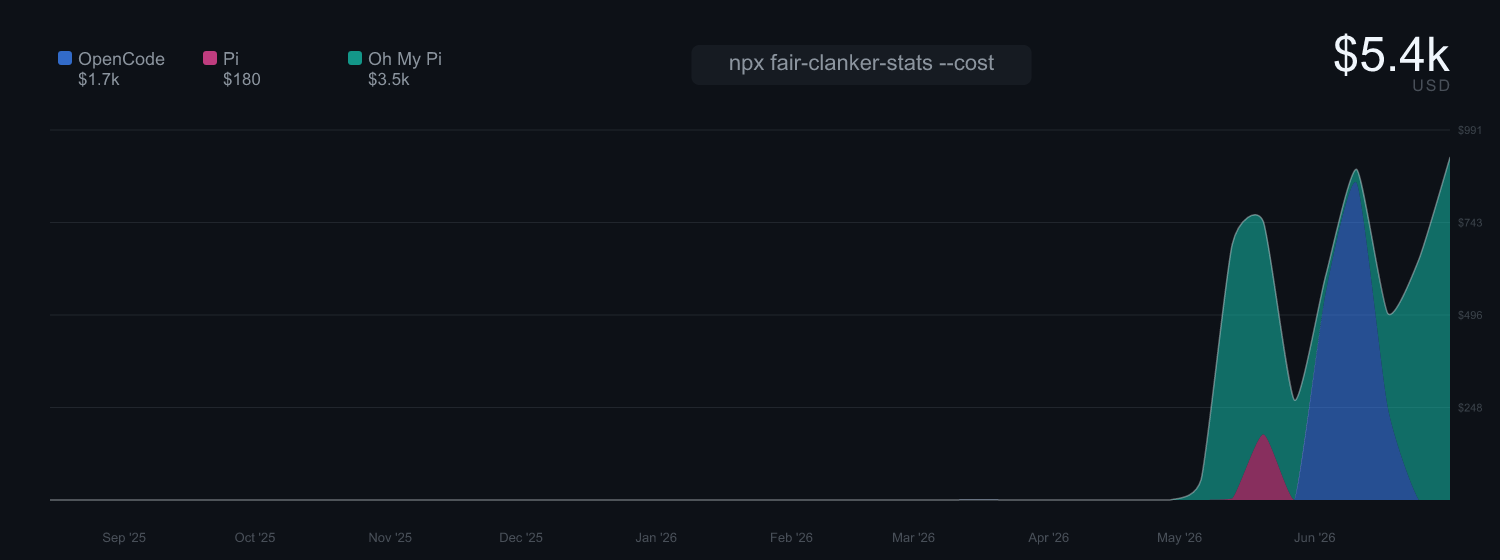
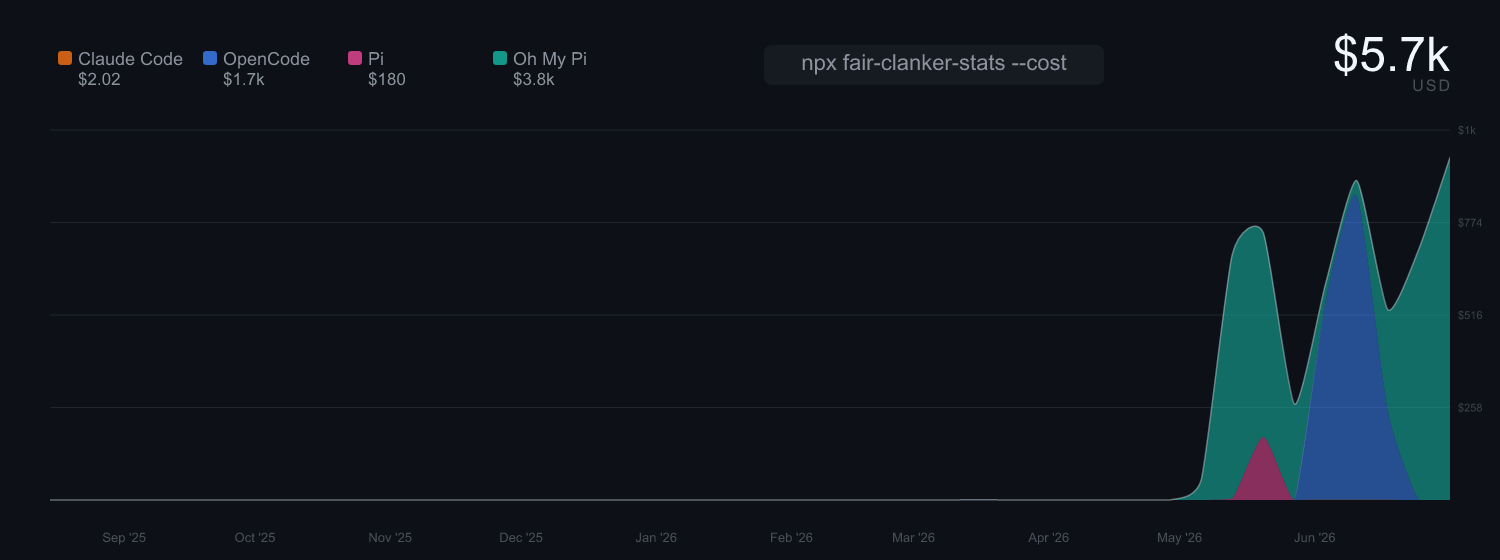
add cc support for cost

diff --git a/cli.js b/cli.js
@@ -22,6 +22,56 @@ function add(map, date, n) {
   map.set(date, (map.get(date) || 0) + n)
 }
 
+// Anthropic price table (USD per MTok, [input, output]), snapshot 2026-07-02
+// from https://platform.claude.com/docs/en/build-with-claude/prompt-caching
+// Derived rates: cache read = 0.1x input, 5m cache write = 1.25x, 1h write = 2x.
+const ANTHROPIC_RATES = {
+  "claude-fable-5": [10, 50],
+  "claude-mythos-5": [10, 50],
+  "claude-opus-4-8": [5, 25],
+  "claude-opus-4-7": [5, 25],
+  "claude-opus-4-6": [5, 25],
+  "claude-opus-4-5": [5, 25],
+  "claude-opus-4-1": [15, 75],
+  "claude-opus-4": [15, 75],
+  "claude-sonnet-5": [2, 10], // 3/15 from 2026-09-01, handled below
+  "claude-sonnet-4-6": [3, 15],
+  "claude-sonnet-4-5": [3, 15],
+  "claude-sonnet-4": [3, 15],
+  "claude-haiku-4-5": [1, 5],
+  "claude-haiku-3-5": [0.8, 4],
+  "claude-3-7-sonnet": [3, 15],
+  "claude-3-5-sonnet": [3, 15],
+  "claude-3-5-haiku": [0.8, 4],
+  "claude-3-opus": [15, 75],
+  "claude-3-haiku": [0.25, 1.25],
+}
+
+function anthropicRates(model, ts) {
+  if (!model) return null
+  let m = model.toLowerCase()
+  m = m.slice(m.lastIndexOf("/") + 1)                     // strip provider prefix
+  m = m.replace(/^(?:[a-z]{2}\.)?anthropic\./, "")        // bedrock region/vendor prefix
+  m = m.replace(/-v\d+(?::\d+)?$/, "")                    // bedrock -v1:0
+  m = m.replace(/[-@]\d{8}$/, "")                         // date suffix
+  if (m.startsWith("claude-sonnet-5") && ts && new Date(ts) >= new Date("2026-09-01")) return [3, 15]
+  if (ANTHROPIC_RATES[m]) return ANTHROPIC_RATES[m]
+  for (const k in ANTHROPIC_RATES) if (m.startsWith(k)) return ANTHROPIC_RATES[k]
+  return null
+}
+
+// TTL-aware cache-write pricing, mirrors Claude Code's own cost function:
+// ephemeral_1h tokens bill at 2x input, the rest at 1.25x.
+function anthropicCost([inp, out], u) {
+  const wTotal = u.cache_creation_input_tokens || 0
+  const w1h = Math.min(u.cache_creation?.ephemeral_1h_input_tokens || 0, wTotal)
+  return ((u.input_tokens || 0) * inp
+    + (u.output_tokens || 0) * out
+    + (u.cache_read_input_tokens || 0) * inp * 0.1
+    + (wTotal - w1h) * inp * 1.25
+    + w1h * inp * 2) / 1e6
+}
+
 async function collectClaude() {
   const counts = new Map()
   const dir = join(home, ".claude", "projects")
@@ -39,6 +89,37 @@ async function collectClaude() {
         const tokens = (u.input_tokens || 0) + (u.output_tokens || 0) +
           (u.cache_creation_input_tokens || 0) + (u.cache_read_input_tokens || 0)
         if (tokens > 0) add(counts, isoToDate(obj.timestamp), tokens)
+      } catch {}
+    }
+  }
+  return counts
+}
+
+// Claude Code writes no cost to disk; compute it ccusage-style from tokens.
+async function collectCostClaude() {
+  const counts = new Map()
+  const dir = join(home, ".claude", "projects")
+  const seen = new Set()
+  for (const path of await fg("*/*.jsonl", { cwd: dir })) {
+    if (path.includes("/subagents/")) continue
+    const text = await readFile(join(dir, path), "utf-8")
+    for (const line of text.split("\n")) {
+      if (!line.includes('"assistant"') || !line.includes('"usage"')) continue
+      try {
+        const obj = JSON.parse(line)
+        if (obj.type !== "assistant" || obj.isSidechain) continue
+        const u = obj.message?.usage
+        if (!u || !obj.timestamp) continue
+        if (obj.message.model === "<synthetic>") continue
+        const rates = anthropicRates(obj.message.model, obj.timestamp)
+        if (!rates) continue
+        if (obj.message.id) {
+          const key = `${obj.message.id}:${obj.requestId || ""}`
+          if (seen.has(key)) continue
+          seen.add(key)
+        }
+        const cost = anthropicCost(rates, u)
+        if (cost > 0) add(counts, isoToDate(obj.timestamp), cost)
       } catch {}
     }
   }
@@ -229,8 +310,20 @@ async function collectCostPiFormat(dir) {
         const obj = JSON.parse(line)
         if (obj.type !== "message") continue
         const u = obj.message?.usage || obj.usage
-        const c = u?.cost?.total
-        if (c > 0 && obj.timestamp) add(counts, isoToDate(obj.timestamp), c)
+        let c = u?.cost?.total
+        if (!(c > 0) || !obj.timestamp) continue
+        // Pi/OMP price all cache writes at the 5m rate; rebill 1h-TTL writes at 2x input.
+        // No-op when the recorded cacheWrite cost already matches the TTL-aware price.
+        const t1h = u.cttl?.ephemeral1h || 0
+        if (t1h > 0) {
+          const rates = anthropicRates(obj.message?.model, obj.timestamp)
+          if (rates) {
+            const w = u.cacheWrite || 0
+            const correct = (Math.min(t1h, w) * 2 + Math.max(w - t1h, 0) * 1.25) * rates[0] / 1e6
+            c += correct - (u.cost.cacheWrite || 0)
+          }
+        }
+        add(counts, isoToDate(obj.timestamp), c)
       } catch {}
     }
   }
@@ -482,7 +575,7 @@ const collectTimePi = () => collectTimePiFormat(join(home, ".pi", "agent", "sess
 const collectTimeOmp = () => collectTimePiFormat(join(home, ".omp", "agent", "sessions"))
 
 const tools = [
-  { name: "Claude Code", collect: collectClaude, collectTime: collectTimeClaude, color: "#f97316" },
+  { name: "Claude Code", collect: collectClaude, collectTime: collectTimeClaude, collectCost: collectCostClaude, color: "#f97316" },
   { name: "Codex", collect: collectCodex, collectTime: collectTimeCodex, color: "#22c55e" },
   { name: "OpenCode", collect: collectOpenCode, collectTime: collectTimeOpenCode, collectCost: collectCostOpenCode, color: "#3b82f6" },
   { name: "Gemini CLI", collect: collectGemini, collectTime: collectTimeGemini, color: "#eab308" },

diff --git a/README.md b/README.md
@@ -33,7 +33,7 @@ node cli.js
 
 | Tool | Data source | `--cost` |
 |------|------------|:---:|
-| Claude Code | `~/.claude/projects/` | — |
+| Claude Code | `~/.claude/projects/` | ✓* |
 | Codex | `~/.codex/sessions/` | — |
 | OpenCode | `~/.local/share/opencode/` (SQLite + JSON) | ✓ |
 | Gemini CLI | `~/.gemini/tmp/` | — |
@@ -43,3 +43,5 @@ node cli.js
 | Mistral Vibe | `~/.vibe/logs/session/` | — |
 
 `--cost` shows API-billed spend as recorded by the tool itself; subscription-covered usage records $0.
+
+\* Claude Code writes no cost to disk, so it is computed from token counts using a vendored Anthropic price table (TTL-aware cache-write rates, as `ccusage` does). Pi / Oh My Pi 1h-TTL cache writes are re-billed at the correct 2x-input rate to fix upstream underreporting.
